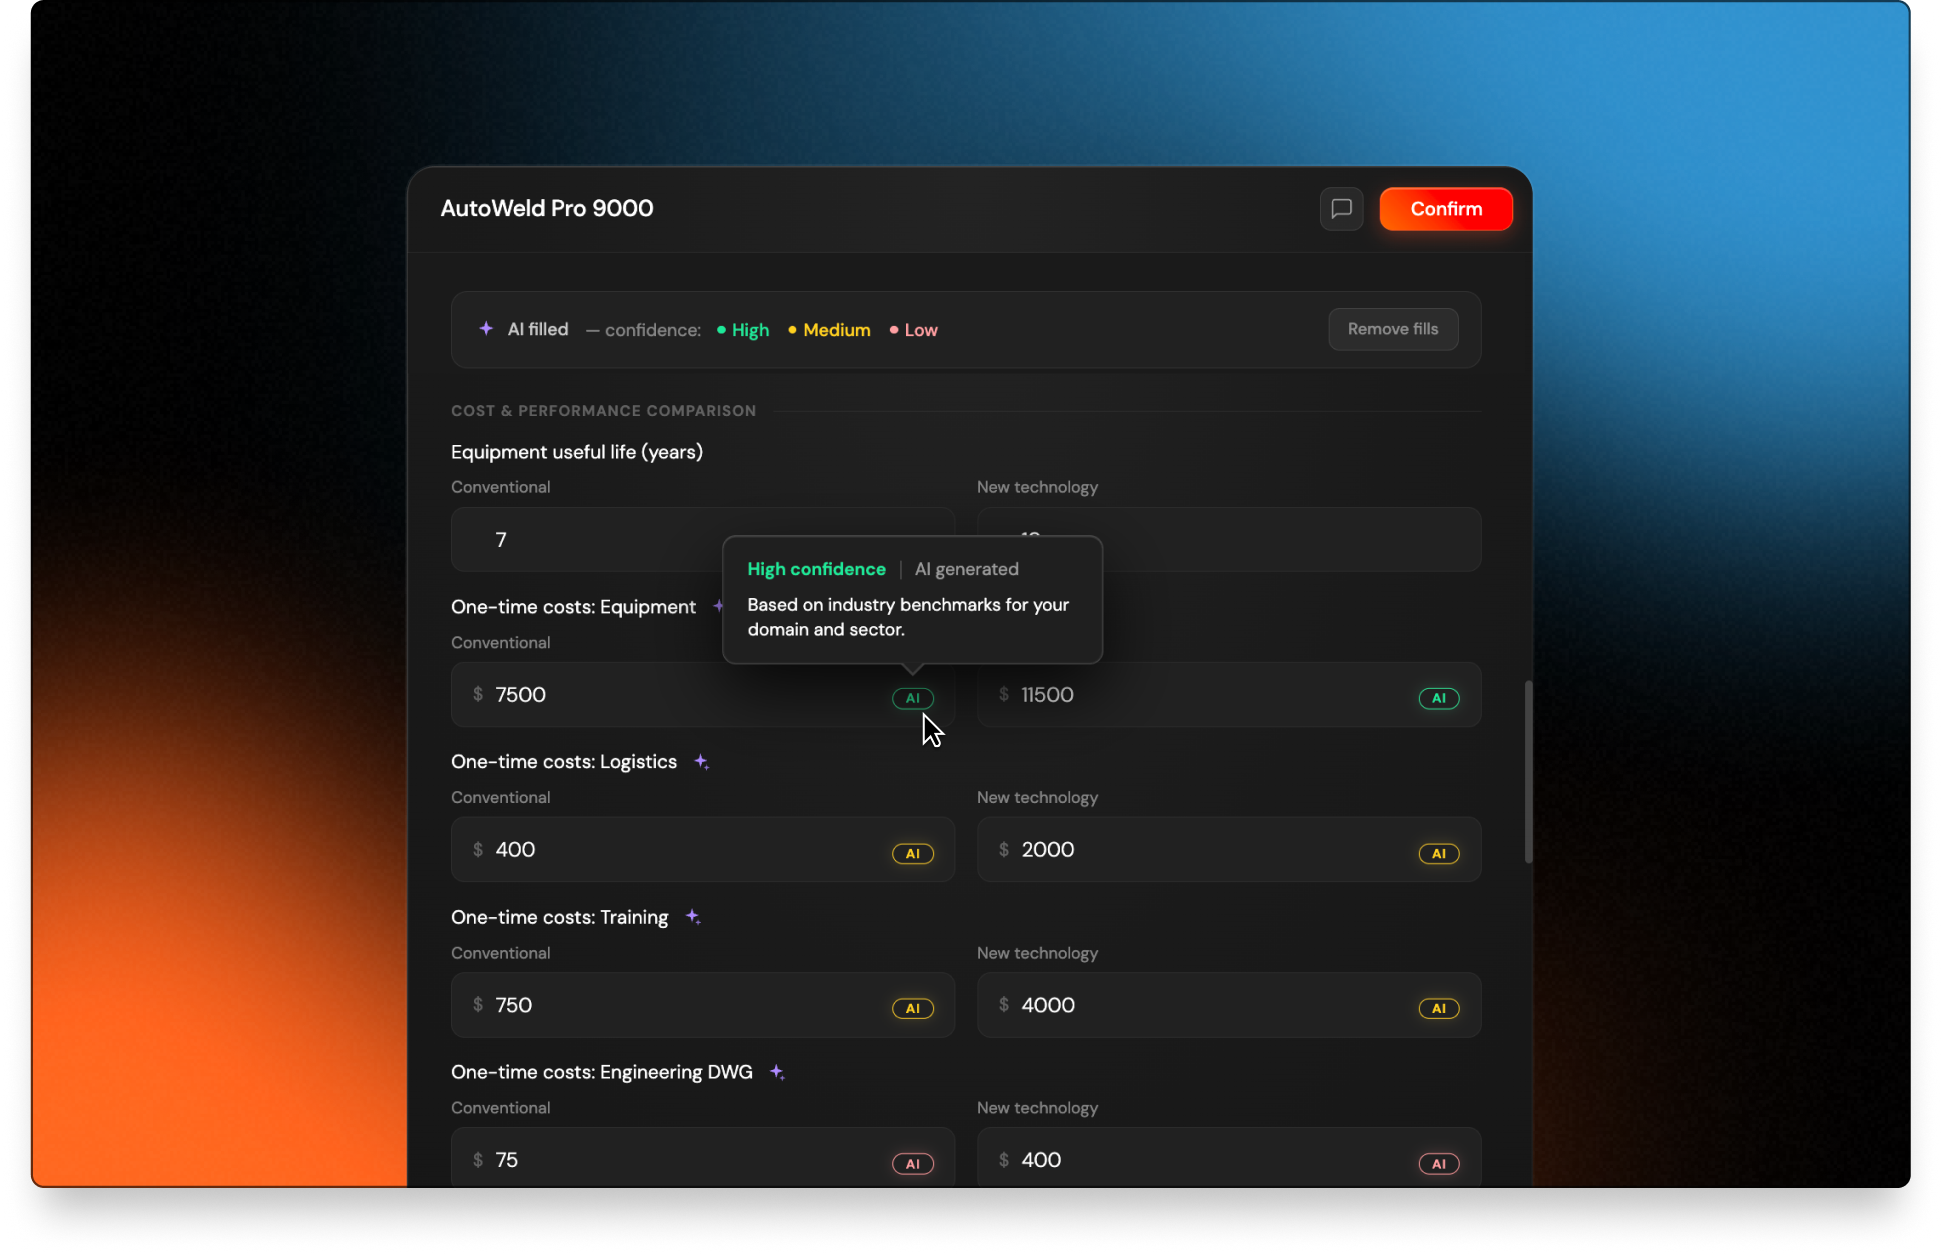
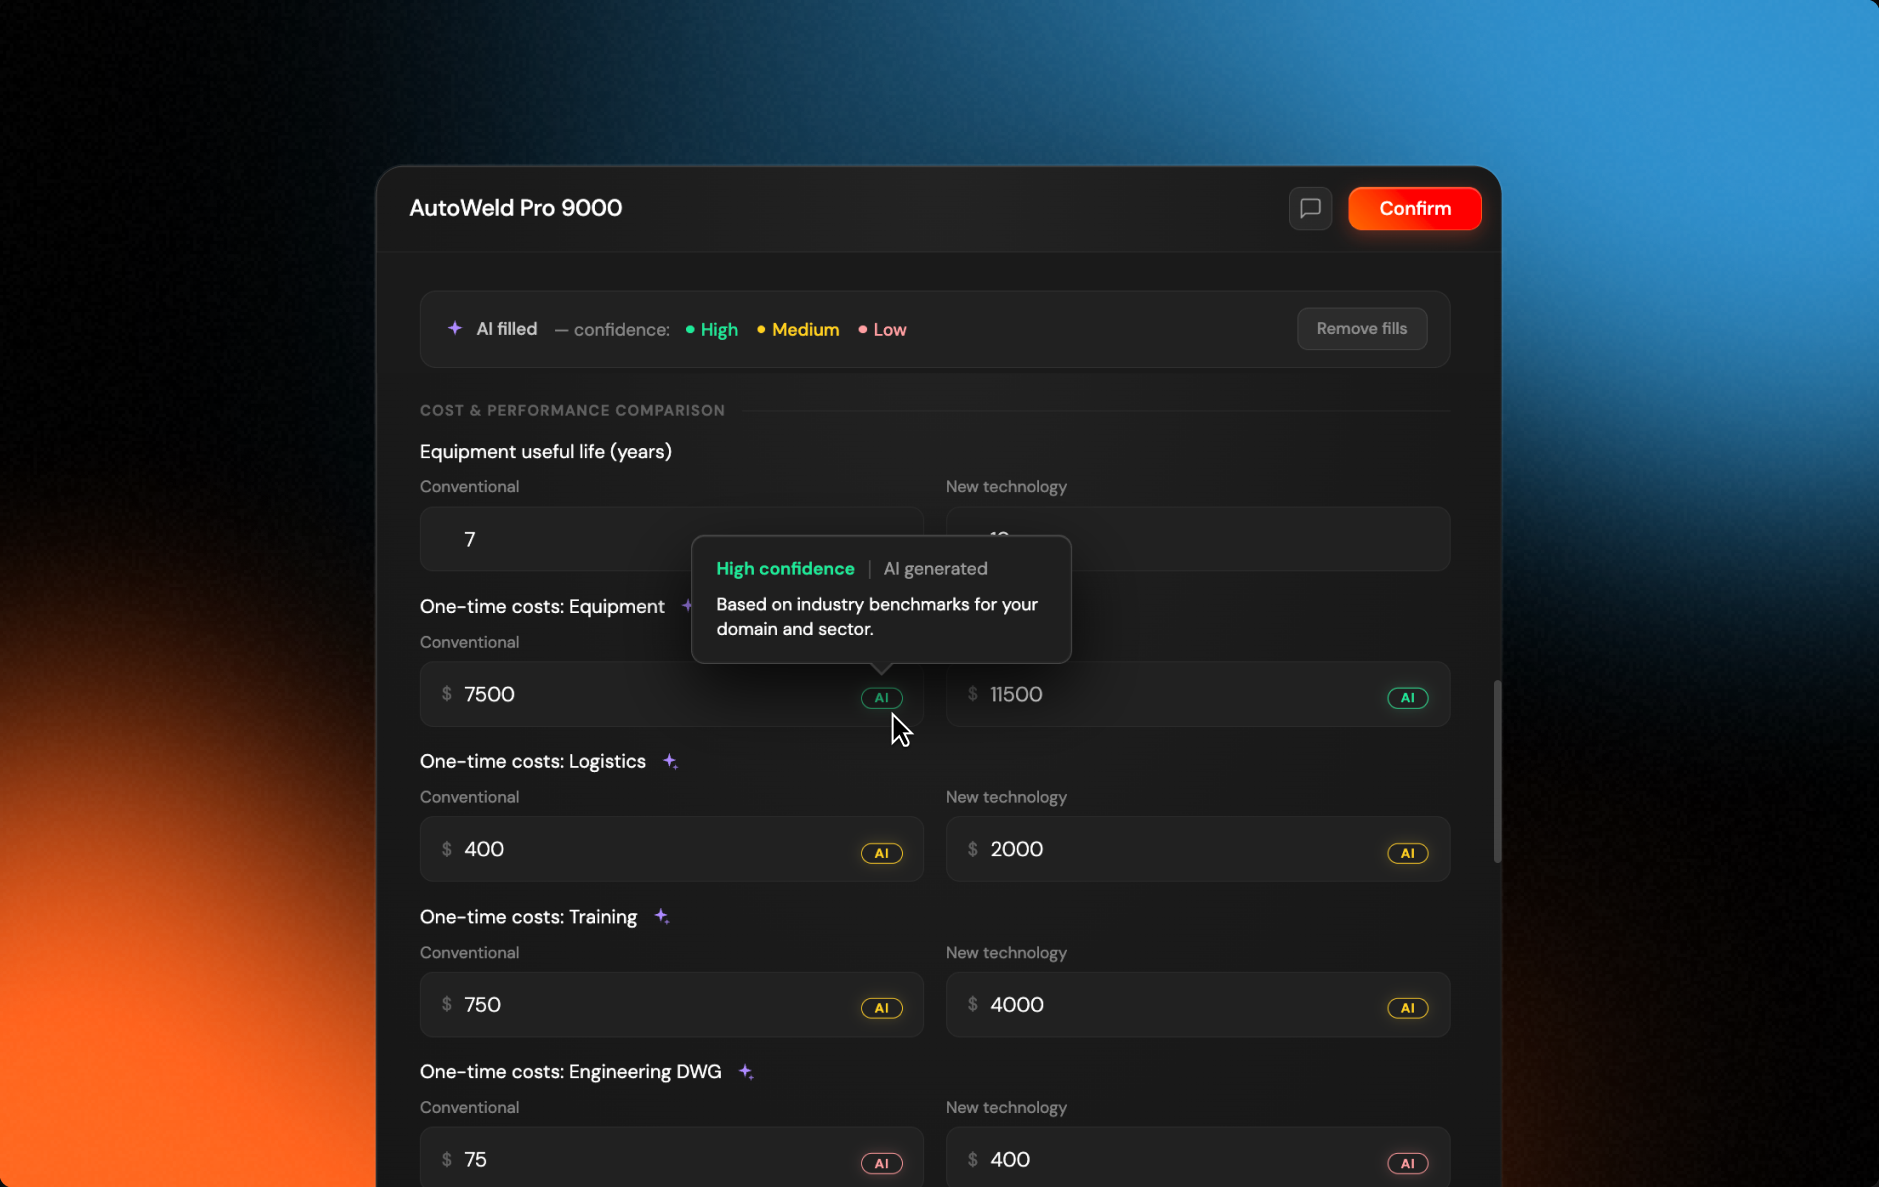
Add Work with me page, typewriter tooltips, hero role line, project shadow
- New work-with-me.html landing with two cards (UX audits + mentoring); rename "Mentoring" nav link to "Work with me" across all pages
- Add typewriter-style tooltips on social icons; email icon copies to clipboard with checkmark + "Copied!" feedback
- Hero tagline now lists Prescouter as a link with a hover thumbnail preview (assets/prescouter-preview.png)
- Strengthen drop shadow on third project card to match perceived elevation of the first two
- Re-export submissions-cover.png tight-cropped to the mockup, flattened on black
- Floating social icons now align to the content right edge on wide viewports

diff --git a/index.html b/index.html
@@ -5,7 +5,7 @@
   <meta name="viewport" content="width=device-width, initial-scale=1.0">
   <link rel="icon" type="image/png" href="favicon.png">
   <title>Ivan Kisin — Product Designer</title>
-  <link rel="stylesheet" href="styles.css">
+  <link rel="stylesheet" href="styles.css?v=22">
   <script defer src="https://cdnjs.cloudflare.com/ajax/libs/bodymovin/5.12.2/lottie.min.js"></script>
   <link rel="preconnect" href="https://fonts.googleapis.com">
   <link rel="preconnect" href="https://fonts.gstatic.com" crossorigin>
@@ -20,7 +20,7 @@
       <a href="index.html?v=2" class="nav-logo"><img src="assets/logo.png" alt="Home" class="nav-logo-img"></a>
       <div class="nav-links">
         <a href="index.html?v=2" class="nav-link active">Portfolio</a>
-        <a href="mentoring.html?v=2" class="nav-link">Mentoring</a>
+        <a href="work-with-me.html?v=2" class="nav-link">Work with me</a>
         <a href="resume.pdf" class="nav-link" target="_blank" rel="noopener">Resume</a>
       </div>
       <button class="nav-toggle" aria-label="Toggle menu">
@@ -31,11 +31,14 @@
   </nav>
 
   <div class="social-fixed">
-    <a href="mailto:ivankisin@gmail.com" class="social-fixed-icon" aria-label="Email">
-      <svg width="20" height="20" viewBox="0 0 24 24" fill="none" stroke="currentColor" stroke-width="1.5" stroke-linecap="round" stroke-linejoin="round"><rect x="2" y="4" width="20" height="16" rx="2"/><path d="M22 4L12 13L2 4"/></svg>
+    <a href="mailto:ivankisin@gmail.com" class="social-fixed-icon" id="emailCopy" data-tooltip="Click to copy my email address" data-copy="ivankisin@gmail.com" aria-label="Copy email address">
+      <svg class="social-icon-default" width="20" height="20" viewBox="0 0 24 24" fill="none" stroke="currentColor" stroke-width="1.5" stroke-linecap="round" stroke-linejoin="round"><rect x="2" y="4" width="20" height="16" rx="2"/><path d="M22 4L12 13L2 4"/></svg>
+      <svg class="social-icon-success" width="20" height="20" viewBox="0 0 24 24" fill="none" stroke="currentColor" stroke-width="1.5" stroke-linecap="round" stroke-linejoin="round"><polyline points="20 6 9 17 4 12"/></svg>
+      <span class="social-fixed-tooltip" aria-hidden="true"></span>
     </a>
-    <a href="https://www.linkedin.com/in/ivan-kisin-65515a264/?skipRedirect=true" class="social-fixed-icon" target="_blank" rel="noopener" aria-label="LinkedIn">
+    <a href="https://www.linkedin.com/in/ivan-kisin-65515a264/?skipRedirect=true" class="social-fixed-icon" data-tooltip="Connect with me on LinkedIn" target="_blank" rel="noopener" aria-label="LinkedIn">
       <svg width="20" height="20" viewBox="0 0 24 24" fill="none" stroke="currentColor" stroke-width="1.5" stroke-linecap="round" stroke-linejoin="round"><path d="M16 8a6 6 0 0 1 6 6v7h-4v-7a2 2 0 0 0-4 0v7h-4v-7a6 6 0 0 1 6-6z"/><rect x="2" y="9" width="4" height="12"/><circle cx="4" cy="4" r="2"/></svg>
+      <span class="social-fixed-tooltip" aria-hidden="true"></span>
     </a>
   </div>
 
@@ -44,7 +47,7 @@
       <div class="hero-content" data-state="idle">
         <div class="hero-welcome" id="heroWelcome" aria-label="Welcome"></div>
         <h1>I'm Ivan</h1>
-        <p class="hero-tagline">Product Designer simplifying complex workflows through <span style="white-space: nowrap;">AI-driven</span> UX and shipping front-end solutions through code.</p>
+        <p class="hero-tagline">Product Designer @ <a href="https://prescouter.com" target="_blank" rel="noopener" class="prescouter-link">Prescouter<span class="prescouter-preview" aria-hidden="true"><img src="assets/prescouter-preview.png" alt="" loading="eager"></span></a>, simplifying complex workflows through <span style="white-space: nowrap;">AI-driven</span> UX and shipping front-end solutions.</p>
       </div>
       <a href="#projects" class="hero-scroll" aria-label="Scroll to projects">
         <svg width="24" height="24" viewBox="0 0 24 24" fill="none" stroke="currentColor" stroke-width="1.5" stroke-linecap="round" stroke-linejoin="round"><polyline points="6 9 12 15 18 9"/></svg>
@@ -149,7 +152,7 @@
             <a href="project3.html?v=2" class="project-btn">See Case Study</a>
           </div>
           <a href="project3.html?v=2" class="project-image-link">
-            <img src="images/submissions-cover.png" alt="AI-Assisted Submissions" class="project-image" loading="lazy">
+            <img src="images/submissions-cover.png?v=4" alt="AI-Assisted Submissions" class="project-image" loading="lazy">
           </a>
         </article>
       </div>
@@ -160,6 +163,6 @@
     <p>&copy; 2026 Ivan Kisin. All rights reserved.</p>
   </footer>
 
-  <script src="script.js"></script>
+  <script src="script.js?v=5"></script>
 </body>
 </html>

diff --git a/styles.css b/styles.css
@@ -240,19 +240,64 @@ body > *:not(.page-loader) {
 .social-fixed {
   position: fixed;
   bottom: 32px;
-  right: 40px;
+  right: max(40px, calc((100vw - 1440px) / 2 + 40px));
   display: flex;
   gap: 16px;
   z-index: 999;
 }
 
 .social-fixed-icon {
+  position: relative;
+  display: inline-flex;
+  align-items: center;
+  justify-content: center;
   color: var(--color-gray-mid);
   transition: color var(--transition);
 }
 
 .social-fixed-icon:hover {
   color: var(--color-black);
+}
+
+.social-fixed-tooltip {
+  position: absolute;
+  bottom: calc(100% + 10px);
+  right: 0;
+  background: var(--color-black);
+  color: var(--color-white);
+  padding: 8px 14px;
+  border-radius: 8px;
+  font-size: 13px;
+  font-weight: 500;
+  letter-spacing: 0.01em;
+  line-height: 1.2;
+  white-space: nowrap;
+  opacity: 0;
+  transform: translateY(4px);
+  pointer-events: none;
+  transition: opacity 0.12s ease, transform 0.12s ease;
+}
+
+.social-fixed-tooltip.is-visible {
+  opacity: 0.92;
+  transform: translateY(0);
+}
+
+
+.social-icon-success {
+  display: none;
+}
+
+.social-fixed-icon.is-copied {
+  color: var(--color-black);
+}
+
+.social-fixed-icon.is-copied .social-icon-default {
+  display: none;
+}
+
+.social-fixed-icon.is-copied .social-icon-success {
+  display: block;
 }
 
 /* ---- Hero (full viewport, paper-texture background) ---- */
@@ -358,6 +403,45 @@ body > *:not(.page-loader) {
   color: #444;
   line-height: 1.7;
   position: relative;
+  z-index: 5;
+}
+
+.prescouter-link {
+  position: relative;
+  display: inline-block;
+  color: var(--color-black);
+  text-decoration: none;
+  font-weight: 500;
+}
+
+.prescouter-preview {
+  position: absolute;
+  top: calc(100% + 14px);
+  left: 50%;
+  width: 340px;
+  padding: 6px;
+  background: var(--color-white);
+  border: 1px solid var(--color-gray-border);
+  border-radius: 8px;
+  box-shadow: 0 12px 36px rgba(0, 0, 0, 0.18);
+  opacity: 0;
+  transform: translate(-50%, -6px);
+  pointer-events: none;
+  transition: opacity 0.18s ease, transform 0.18s ease;
+  z-index: 1000;
+}
+
+.prescouter-preview img {
+  display: block;
+  width: 100%;
+  height: auto;
+  border-radius: 4px;
+}
+
+.prescouter-link:hover .prescouter-preview,
+.prescouter-link:focus-visible .prescouter-preview {
+  opacity: 1;
+  transform: translate(-50%, 0);
 }
 
 
@@ -469,10 +553,17 @@ body > *:not(.page-loader) {
   display: block;
   overflow: hidden;
   border-radius: 8px;
+  max-width: 90%;
+  margin: 0 auto;
   box-shadow: 0 4px 20px rgba(0, 0, 0, 0.08), 0 1px 6px rgba(0, 0, 0, 0.04);
 }
 
+.project-section:nth-child(3) .project-image-link {
+  box-shadow: 0 12px 28px rgba(0, 0, 0, 0.20), 0 4px 10px rgba(0, 0, 0, 0.12);
+}
+
 .project-image {
+  display: block;
   width: 100%;
   aspect-ratio: 3 / 2;
   object-fit: cover;
@@ -519,6 +610,13 @@ body > *:not(.page-loader) {
   margin-bottom: 60px;
 }
 
+.coaching-grid--stacked {
+  grid-template-columns: 1fr;
+  max-width: 560px;
+  margin-left: auto;
+  margin-right: auto;
+}
+
 .coaching-card {
   padding: 36px;
   border: 1px solid var(--color-gray-border);
@@ -541,6 +639,21 @@ body > *:not(.page-loader) {
   font-size: 15px;
   color: var(--color-gray-mid);
   line-height: 1.7;
+}
+
+.coaching-card--link {
+  display: flex;
+  flex-direction: column;
+  text-decoration: none;
+  color: inherit;
+}
+
+.coaching-card-cta {
+  margin-top: 24px;
+  font-size: 14px;
+  font-weight: 600;
+  color: var(--color-black);
+  letter-spacing: 0.01em;
 }
 
 .page-header--narrow {

diff --git a/work-with-me.html b/work-with-me.html
@@ -4,7 +4,7 @@
   <meta charset="UTF-8">
   <meta name="viewport" content="width=device-width, initial-scale=1.0">
   <link rel="icon" type="image/png" href="favicon.png">
-  <title>Mentoring — Ivan Kisin</title>
+  <title>Work with me — Ivan Kisin</title>
   <link rel="stylesheet" href="styles.css">
   <link rel="preconnect" href="https://fonts.googleapis.com">
   <link rel="preconnect" href="https://fonts.gstatic.com" crossorigin>
@@ -28,25 +28,24 @@
 
   <main>
     <section class="page-header page-header--narrow">
-      <h1>Mentoring</h1>
-      <p>Are you a junior designer trying to break into the industry, or in your first year or two and looking for thoughtful feedback? I occasionally mentor designers and am happy to help when I can.</p>
+      <h1>Work with me</h1>
+      <p>Two ways we can work together — pick whichever fits.</p>
     </section>
 
-    <section class="coaching-content coaching-content--narrow">
-      <div class="mentoring-block">
-        <h3>How I can help</h3>
-        <p><strong>Portfolio feedback</strong> — improving how you present your work, structure case studies, and clearly show your impact.</p>
-        <p><strong>Breaking in</strong> — applications, interviews, and how to position yourself with limited experience.</p>
-        <p><strong>Career questions</strong> — choosing a direction, evaluating offers, and growing in your first few years.</p>
-      </div>
+    <section class="coaching-content">
+      <div class="coaching-grid coaching-grid--stacked">
+        <a href="ux-audit.html?v=2" class="coaching-card coaching-card--link">
+          <h3>UX audits for SaaS startups</h3>
+          <p>A focused review of your product's experience — friction points, conversion blockers, and concrete recommendations.</p>
+          <span class="coaching-card-cta">Learn more →</span>
+        </a>
 
-      <div class="mentoring-block">
-        <h3>How to reach out</h3>
-        <p>Send me a link to your portfolio (or what you're working on) and one specific thing you'd like feedback on. The more focused your question, the more useful I can be.</p>
-        <p>No charge — I do this alongside a full-time role, so I can't respond to every request, but I'll do my best.</p>
+        <a href="mailto:ivankisin@gmail.com?subject=Interested%20in%20mentoring" class="coaching-card coaching-card--link">
+          <h3>Mentoring for junior designers</h3>
+          <p>Portfolio feedback, breaking into the industry, and early-career questions. Free, as time allows.</p>
+          <span class="coaching-card-cta">Get in touch →</span>
+        </a>
       </div>
-
-      <a href="mailto:ivankisin@gmail.com?subject=Mentoring" class="btn">Get in touch</a>
     </section>
   </main>
 

diff --git a/script.js b/script.js
@@ -37,6 +37,70 @@ if (pageLoader) {
   setTimeout(hideLoader, 2000);
 }
 
+// Typewriter tooltips on the fixed social icons
+document.querySelectorAll('.social-fixed-icon').forEach((icon) => {
+  const tip = icon.querySelector('.social-fixed-tooltip');
+  if (!tip) return;
+  const defaultText = icon.getAttribute('data-tooltip') || '';
+  let typeTimer;
+
+  const typeText = (str) => {
+    clearInterval(typeTimer);
+    tip.textContent = '';
+    tip.classList.add('is-visible');
+    let i = 0;
+    typeTimer = setInterval(() => {
+      i += 1;
+      tip.textContent = str.slice(0, i);
+      if (i >= str.length) clearInterval(typeTimer);
+    }, 14);
+  };
+
+  const hide = () => {
+    clearInterval(typeTimer);
+    tip.classList.remove('is-visible');
+    tip.textContent = '';
+  };
+
+  icon.addEventListener('mouseenter', () => {
+    if (icon.dataset.lock === '1') return;
+    typeText(icon.getAttribute('data-tooltip') || defaultText);
+  });
+  icon.addEventListener('mouseleave', () => {
+    if (icon.dataset.lock === '1') return;
+    hide();
+  });
+
+  icon._tooltipType = typeText;
+  icon._tooltipHide = hide;
+});
+
+// Click-to-copy email
+const emailCopy = document.getElementById('emailCopy');
+if (emailCopy) {
+  const email = emailCopy.getAttribute('data-copy');
+  let resetTimer;
+  emailCopy.addEventListener('click', (e) => {
+    e.preventDefault();
+    if (!(navigator.clipboard && navigator.clipboard.writeText)) return;
+    navigator.clipboard.writeText(email).then(() => {
+      emailCopy.classList.add('is-copied');
+      emailCopy.dataset.lock = '1';
+      if (emailCopy._tooltipType) emailCopy._tooltipType('Copied!');
+      clearTimeout(resetTimer);
+      resetTimer = setTimeout(() => {
+        emailCopy.classList.remove('is-copied');
+        delete emailCopy.dataset.lock;
+        if (emailCopy.matches(':hover') && emailCopy._tooltipType) {
+          emailCopy._tooltipType(emailCopy.getAttribute('data-tooltip') || '');
+        } else if (emailCopy._tooltipHide) {
+          emailCopy._tooltipHide();
+        }
+      }, 2500);
+    }).catch(() => {});
+  });
+}
+
 // Nav background on scroll (transparent over hero, solid after)
 const nav = document.querySelector('.nav');
 const hero = document.querySelector('.hero');

diff --git a/project2.html b/project2.html
@@ -1483,7 +1483,7 @@
       <a href="index.html?v=2" class="nav-logo"><img src="assets/logo.png" alt="Home" class="nav-logo-img"></a>
       <div class="nav-links">
         <a href="index.html?v=2" class="nav-link active">Portfolio</a>
-        <a href="mentoring.html?v=2" class="nav-link">Mentoring</a>
+        <a href="work-with-me.html?v=2" class="nav-link">Work with me</a>
         <a href="resume.pdf" class="nav-link" target="_blank" rel="noopener">Resume</a>
       </div>
       <button class="nav-toggle" aria-label="Toggle menu">

diff --git a/feedback-showcase.html b/feedback-showcase.html
@@ -16,7 +16,7 @@
       <a href="index.html?v=2" class="nav-logo"><img src="assets/logo.png" alt="Home" class="nav-logo-img"></a>
       <div class="nav-links">
         <a href="index.html?v=2" class="nav-link active">Portfolio</a>
-        <a href="mentoring.html?v=2" class="nav-link">Mentoring</a>
+        <a href="work-with-me.html?v=2" class="nav-link">Work with me</a>
         <a href="resume.pdf" class="nav-link" target="_blank" rel="noopener">Resume</a>
       </div>
       <button class="nav-toggle" aria-label="Toggle menu">

diff --git a/resume.html b/resume.html
@@ -16,7 +16,7 @@
       <a href="index.html?v=2" class="nav-logo"><img src="assets/logo.png" alt="Home" class="nav-logo-img"></a>
       <div class="nav-links">
         <a href="index.html?v=2" class="nav-link">Portfolio</a>
-        <a href="mentoring.html?v=2" class="nav-link">Mentoring</a>
+        <a href="work-with-me.html?v=2" class="nav-link">Work with me</a>
         <a href="resume.pdf" class="nav-link active" target="_blank" rel="noopener">Resume</a>
       </div>
       <button class="nav-toggle" aria-label="Toggle menu">

diff --git a/project1.html b/project1.html
@@ -103,7 +103,7 @@
       <a href="index.html?v=2" class="nav-logo"><img src="assets/logo.png" alt="Home" class="nav-logo-img"></a>
       <div class="nav-links">
         <a href="index.html?v=2" class="nav-link">Portfolio</a>
-        <a href="mentoring.html?v=2" class="nav-link">Mentoring</a>
+        <a href="work-with-me.html?v=2" class="nav-link">Work with me</a>
         <a href="resume.pdf" class="nav-link" target="_blank" rel="noopener">Resume</a>
       </div>
       <button class="nav-toggle" aria-label="Toggle menu">

diff --git a/project3.html b/project3.html
@@ -58,7 +58,7 @@
       <a href="index.html?v=2" class="nav-logo"><img src="assets/logo.png" alt="Home" class="nav-logo-img"></a>
       <div class="nav-links">
         <a href="index.html?v=2" class="nav-link">Portfolio</a>
-        <a href="mentoring.html?v=2" class="nav-link">Mentoring</a>
+        <a href="work-with-me.html?v=2" class="nav-link">Work with me</a>
         <a href="resume.pdf" class="nav-link" target="_blank" rel="noopener">Resume</a>
       </div>
       <button class="nav-toggle" aria-label="Toggle menu">
